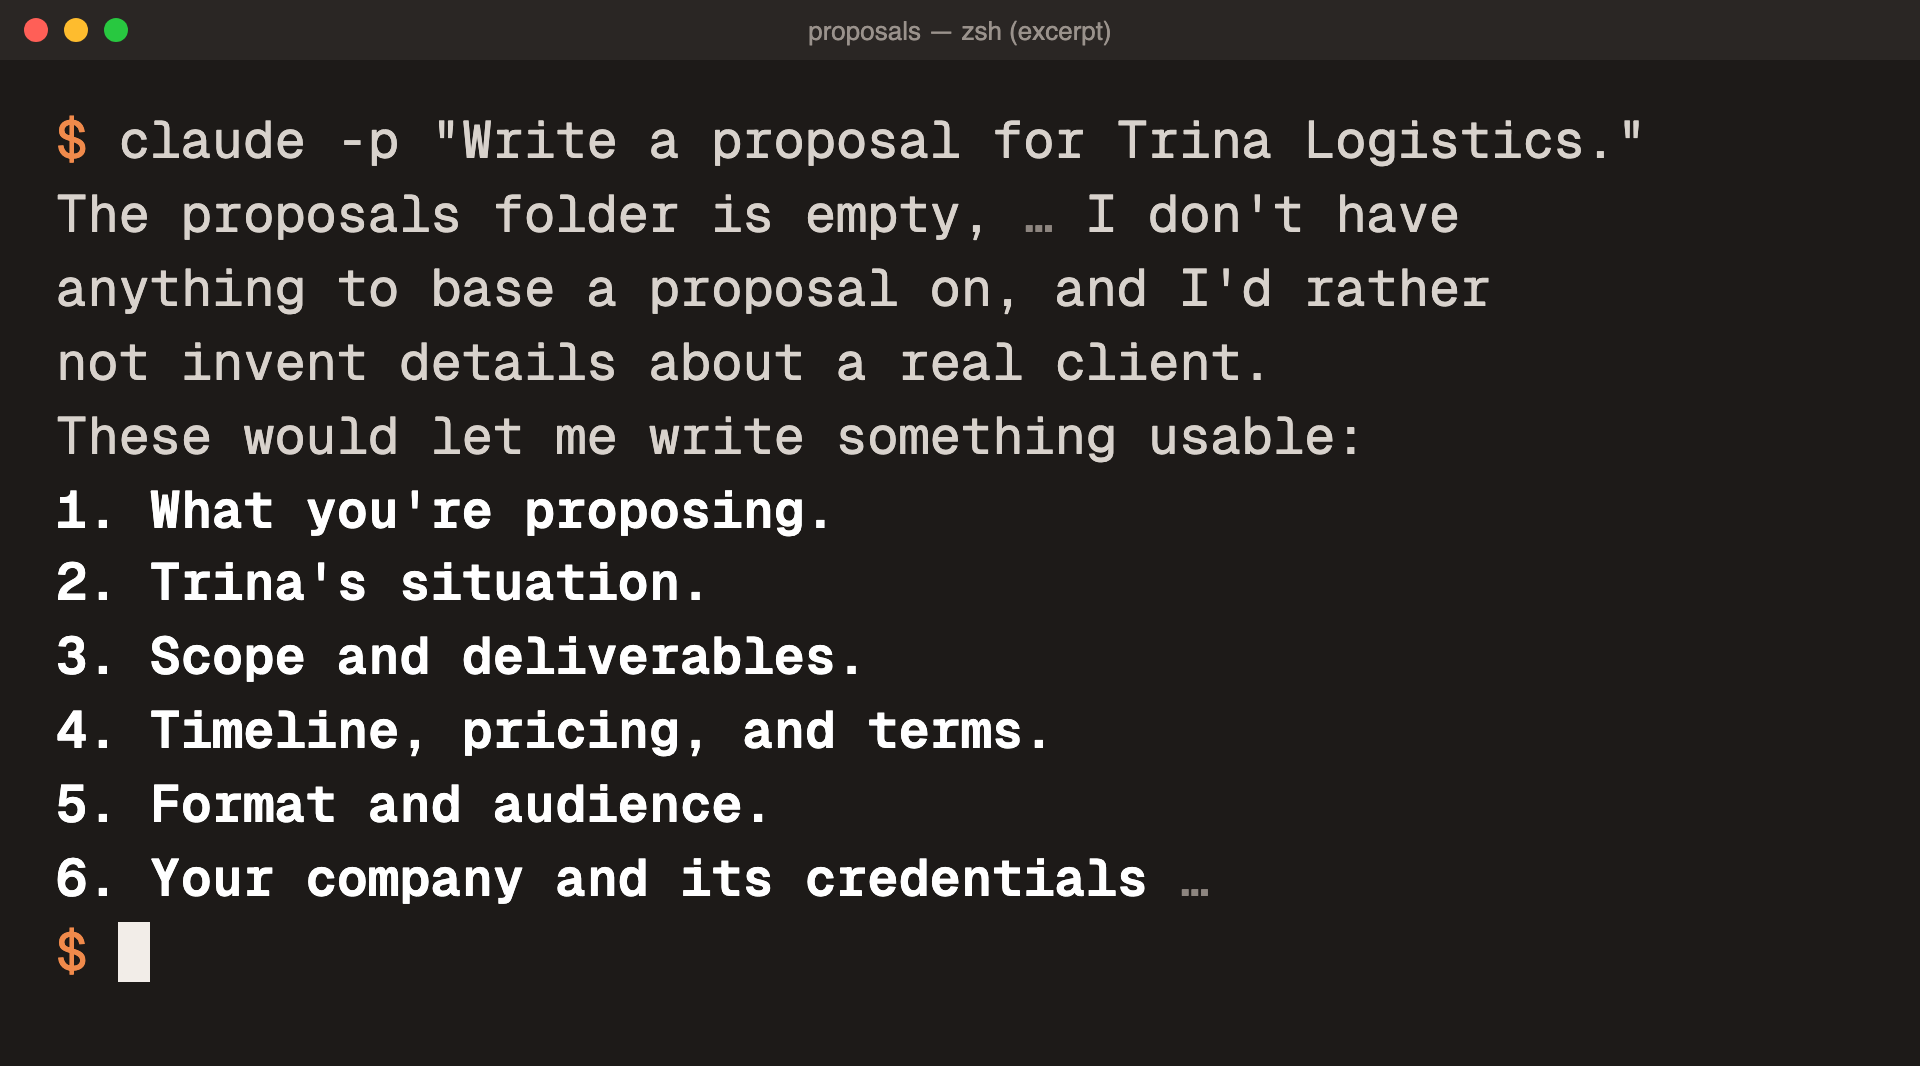
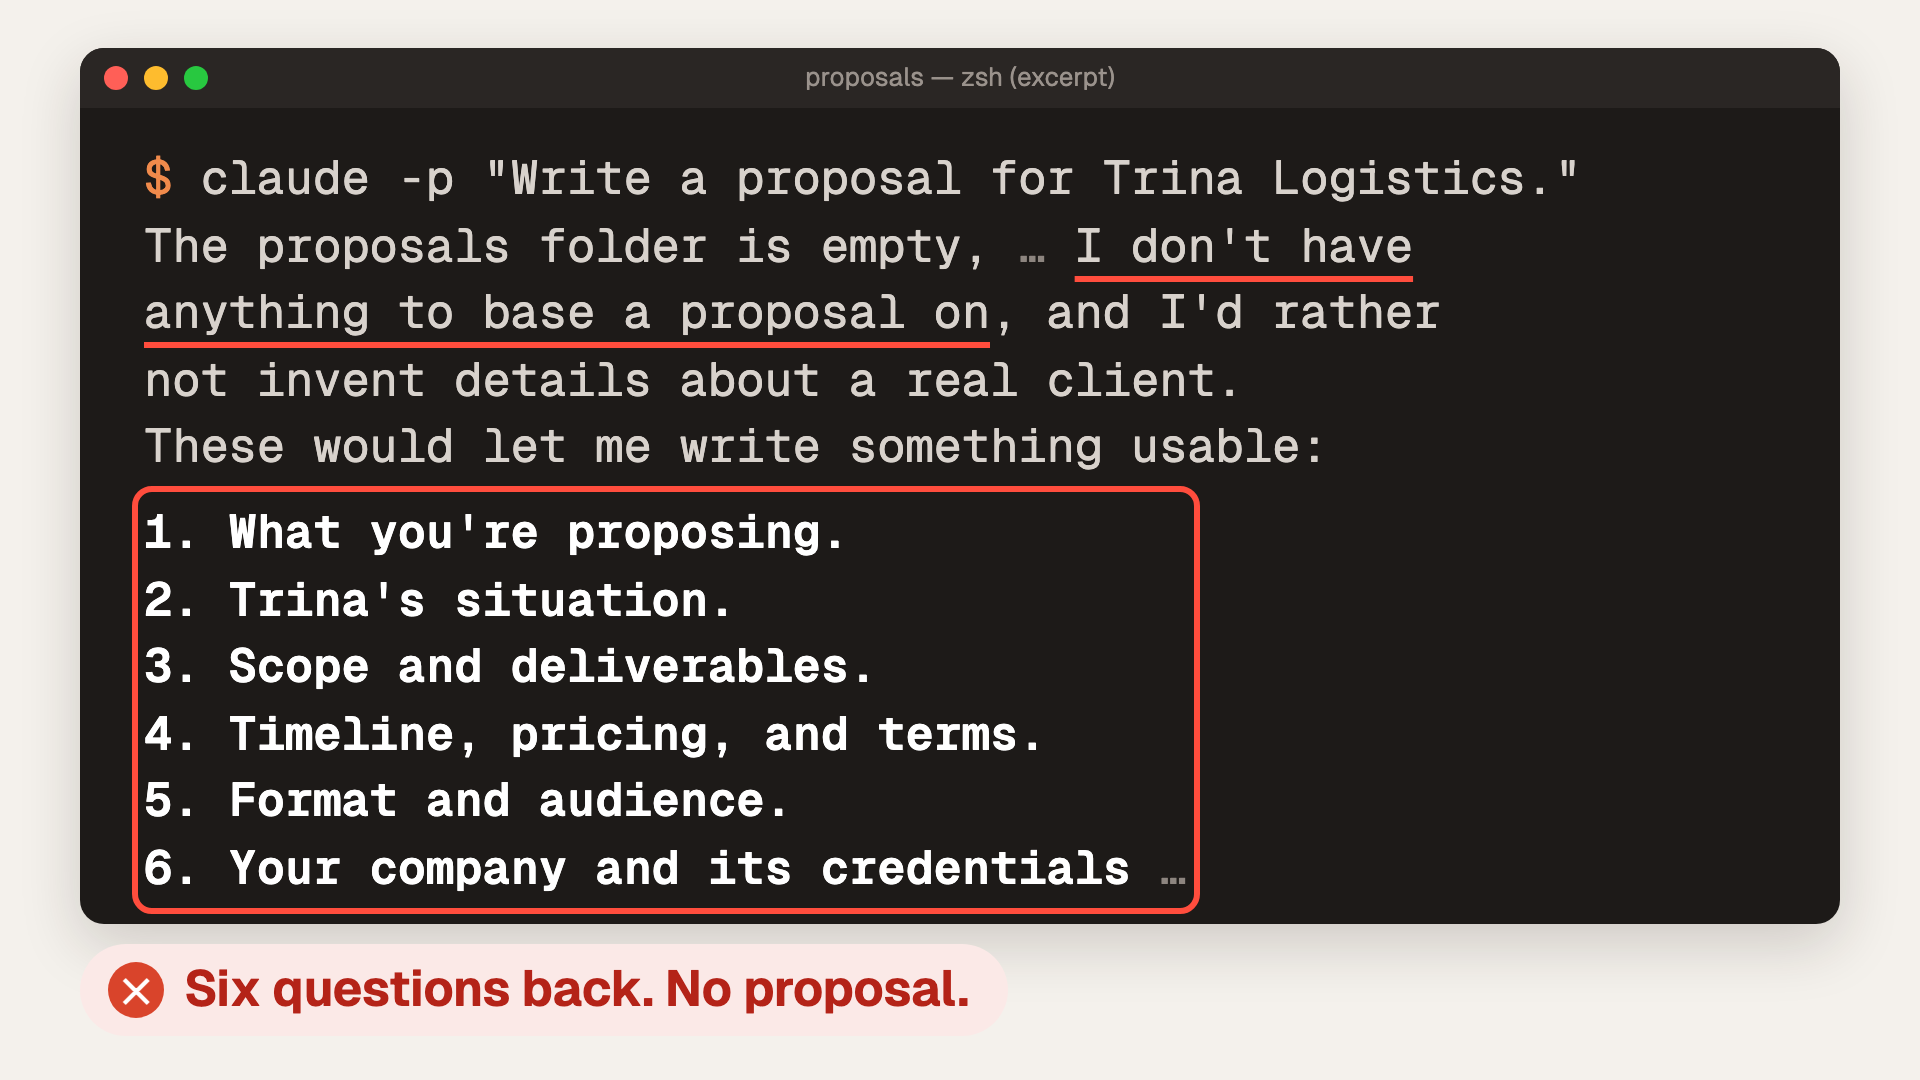
docs(readme): clearer before/after pair, photo deck
Left: red underline on "I don't have anything to base a proposal on", a box around the six questions,
label "Six questions back. No proposal." Right: the 2026-11-01 deck with Higgsfield photos (was the
older deck without photos), the request as a chat bubble, label "A 7-page deck, with photos."
Captions and alt text in five READMEs updated for the new date and photos.

diff --git a/docs/images/README.md b/docs/images/README.md
@@ -28,8 +28,8 @@ Captured 2026-10-31 (Asia/Seoul) from a hosted Trina AX team (`potenlab.trina.ap
 | File | Evidence and limits |
 |---|---|
 | `readme/hero-day-one.gif` | Mina's chat: one typed request, the live steps (reading the `proposal` skill and the sales files), the "1 file saved" result and the generated 7-page deck opening in the file preview. Generation took 81.4 s; the clip is cut and sped up (8× during the steps, 1.5× on the deck pages, both labeled in the frame). 880 px, 9 fps, 19 s |
-| `readme/before-empty-claude.png` | The same request sent with `claude -p` in an empty folder on a developer Mac (2026-10-31). An excerpt in large type so it reads in the README table: the opening sentences and the six question headings, word for word, with `…` where text was cut. Replayed in a terminal-styled page for a clean capture |
-| `readme/after-trina-deck.png` | Cover of the deck from the hero run |
+| `readme/before-empty-claude.png` | The same request sent with `claude -p` in an empty folder on a developer Mac (2026-10-31). An excerpt in large type so it reads in the README table: the opening sentences and the six question headings, word for word, with `…` where text was cut. Replayed in a terminal-styled page; the red underline, red box and the "Six questions back. No proposal." label are annotations |
+| `readme/after-trina-deck.png` | A real deck from 2026-11-01: Mina's one-line request on the demo server, with the photos made through the team's Higgsfield connection. The cover with two later pages (2 and 5) behind it, the request as a chat bubble, and the "A 7-page deck, with photos." label added as annotations |
 | `readme/permission-answer.png` | Mina asking for last quarter's revenue; the file sits in `shared/Finance`, which she cannot read. Cropped to the question and the first paragraph of the live answer |
 
 The deck template and skill are fictional sample material, not shipped examples. The video these frames come from is kept outside the repository.

diff --git a/README.ja.md b/README.ja.md
@@ -27,11 +27,11 @@ https://github.com/user-attachments/assets/61f3469b-358d-4b3a-9233-c6b23b5db835
 </tr>
 <tr>
 <td><img src="docs/images/readme/before-empty-claude.png" alt="空のフォルダーで開いた Claude Code は、「Write a proposal for Trina Logistics」に対して、会社・顧客・形式について6つの質問を返します。"></td>
-<td><img src="docs/images/readme/after-trina-deck.png" alt="Trina AX は同じ依頼に対して、表紙に「Lead time from 2.1 to 1.4 days」と書かれた7ページの提案書を返します。"></td>
+<td><img src="docs/images/readme/after-trina-deck.png" alt="Trina AX は同じ依頼に対して、表紙に「Lead time from 2.1 to 1.4 days, within your budget」と書かれた7ページの提案書を返します。"></td>
 </tr>
 </table>
 
-<sub>2026-10-31 に架空の会社 Dawnroute で実際に出力した結果です。Claude Code が聞き返すのは正しい判断です。空のフォルダーには、どんな会社なのかを伝えるものが何もないからです。Trina は、そのフォルダーを Claude Code に渡します。</sub>
+<sub>2026-10-31・11-01 に架空の会社 Dawnroute で実際に出力した結果です。提案書の写真は Higgsfield で作りました。Claude Code が聞き返すのは正しい判断です。空のフォルダーには、どんな会社なのかを伝えるものが何もないからです。Trina は、そのフォルダーを Claude Code に渡します。</sub>
 
 ## しくみ
 

diff --git a/README.es.md b/README.es.md
@@ -27,11 +27,11 @@ https://github.com/user-attachments/assets/61f3469b-358d-4b3a-9233-c6b23b5db835
 </tr>
 <tr>
 <td><img src="docs/images/readme/before-empty-claude.png" alt="Claude Code, en una carpeta vacía, responde a “Write a proposal for Trina Logistics” con seis preguntas sobre la empresa, el cliente y el formato."></td>
-<td><img src="docs/images/readme/after-trina-deck.png" alt="Trina AX responde a la misma petición con una propuesta de 7 diapositivas cuya portada dice “Lead time from 2.1 to 1.4 days”."></td>
+<td><img src="docs/images/readme/after-trina-deck.png" alt="Trina AX responde a la misma petición con una propuesta de 7 diapositivas cuya portada dice “Lead time from 2.1 to 1.4 days, within your budget”."></td>
 </tr>
 </table>
 
-<sub>Resultados reales del 31 de octubre de 2026 con una empresa ficticia, Dawnroute. Claude Code hace bien en preguntar: en una carpeta vacía no hay nada que le diga quién eres. Trina le da la carpeta.</sub>
+<sub>Resultados reales del 31 de octubre y el 1 de noviembre de 2026 con una empresa ficticia, Dawnroute; las fotos de la presentación se hicieron con Higgsfield. Claude Code hace bien en preguntar: en una carpeta vacía no hay nada que le diga quién eres. Trina le da la carpeta.</sub>
 
 ## Cómo funciona
 

diff --git a/README.ko.md b/README.ko.md
@@ -27,11 +27,11 @@ https://github.com/user-attachments/assets/f19762ef-84de-414a-9f5d-69792f319ec7
 </tr>
 <tr>
 <td><img src="docs/images/readme/before-empty-claude.png" alt="빈 폴더의 Claude Code가 'Write a proposal for Trina Logistics'에 회사, 고객, 형식을 묻는 질문 여섯 개로 답해요."></td>
-<td><img src="docs/images/readme/after-trina-deck.png" alt="트리나 AX는 같은 요청에 'Lead time from 2.1 to 1.4 days'라는 표지의 7쪽 제안서로 답해요."></td>
+<td><img src="docs/images/readme/after-trina-deck.png" alt="트리나 AX는 같은 요청에 'Lead time from 2.1 to 1.4 days, within your budget'라는 표지의 7쪽 제안서로 답해요."></td>
 </tr>
 </table>
 
-<sub>2026-10-31에 가상 회사 Dawnroute 자료로 실제로 돌린 결과예요. Claude Code가 되묻는 게 맞아요. 빈 폴더에는 우리가 누군지 알려 줄 게 없으니까요. 트리나는 그 폴더를 채워 줘요.</sub>
+<sub>2026-10-31·11-01에 가상 회사 Dawnroute 자료로 실제로 돌린 결과예요. 덱 사진은 Higgsfield로 만들었어요. Claude Code가 되묻는 게 맞아요. 빈 폴더에는 우리가 누군지 알려 줄 게 없으니까요. 트리나는 그 폴더를 채워 줘요.</sub>
 
 ## 이렇게 돌아가요
 

diff --git a/README.zh-CN.md b/README.zh-CN.md
@@ -27,11 +27,11 @@ https://github.com/user-attachments/assets/61f3469b-358d-4b3a-9233-c6b23b5db835
 </tr>
 <tr>
 <td><img src="docs/images/readme/before-empty-claude.png" alt="在空文件夹里运行的 Claude Code 收到“Write a proposal for Trina Logistics”后，反问了六个关于公司、客户和格式的问题。"></td>
-<td><img src="docs/images/readme/after-trina-deck.png" alt="Trina AX 对同样的请求直接给出一份 7 页的提案幻灯片，封面写着“Lead time from 2.1 to 1.4 days”。"></td>
+<td><img src="docs/images/readme/after-trina-deck.png" alt="Trina AX 对同样的请求直接给出一份 7 页的提案幻灯片，封面写着“Lead time from 2.1 to 1.4 days, within your budget”。"></td>
 </tr>
 </table>
 
-<sub>2026-10-31 用虚构公司 Dawnroute 实际跑出的结果。Claude Code 先提问并没有错：空文件夹里没有任何东西能告诉它你是谁。Trina 做的，就是把这个文件夹交给它。</sub>
+<sub>2026-10-31 和 11-01 用虚构公司 Dawnroute 实际跑出的结果，幻灯片里的照片由 Higgsfield 生成。Claude Code 先提问并没有错：空文件夹里没有任何东西能告诉它你是谁。Trina 做的，就是把这个文件夹交给它。</sub>
 
 ## 工作原理
 

diff --git a/README.md b/README.md
@@ -27,11 +27,11 @@ https://github.com/user-attachments/assets/61f3469b-358d-4b3a-9233-c6b23b5db835
 </tr>
 <tr>
 <td><img src="docs/images/readme/before-empty-claude.png" alt="Claude Code in an empty folder answers 'Write a proposal for Trina Logistics' with six questions about the company, the client and the format."></td>
-<td><img src="docs/images/readme/after-trina-deck.png" alt="Trina AX answers the same request with a 7-page proposal deck whose cover reads 'Lead time from 2.1 to 1.4 days'."></td>
+<td><img src="docs/images/readme/after-trina-deck.png" alt="Trina AX answers the same request with a 7-page proposal deck with photos; the cover reads 'Lead time from 2.1 to 1.4 days, within your budget'."></td>
 </tr>
 </table>
 
-<sub>Real outputs from 2026-10-31 with a fictional company, Dawnroute. Claude Code is right to ask: nothing in an empty folder tells it who you are. Trina gives it the folder.</sub>
+<sub>Real outputs from 2026-10-31 and 11-01 with a fictional company, Dawnroute; the deck photos were made with Higgsfield. Claude Code is right to ask: nothing in an empty folder tells it who you are. Trina gives it the folder.</sub>
 
 ## How it works
 
